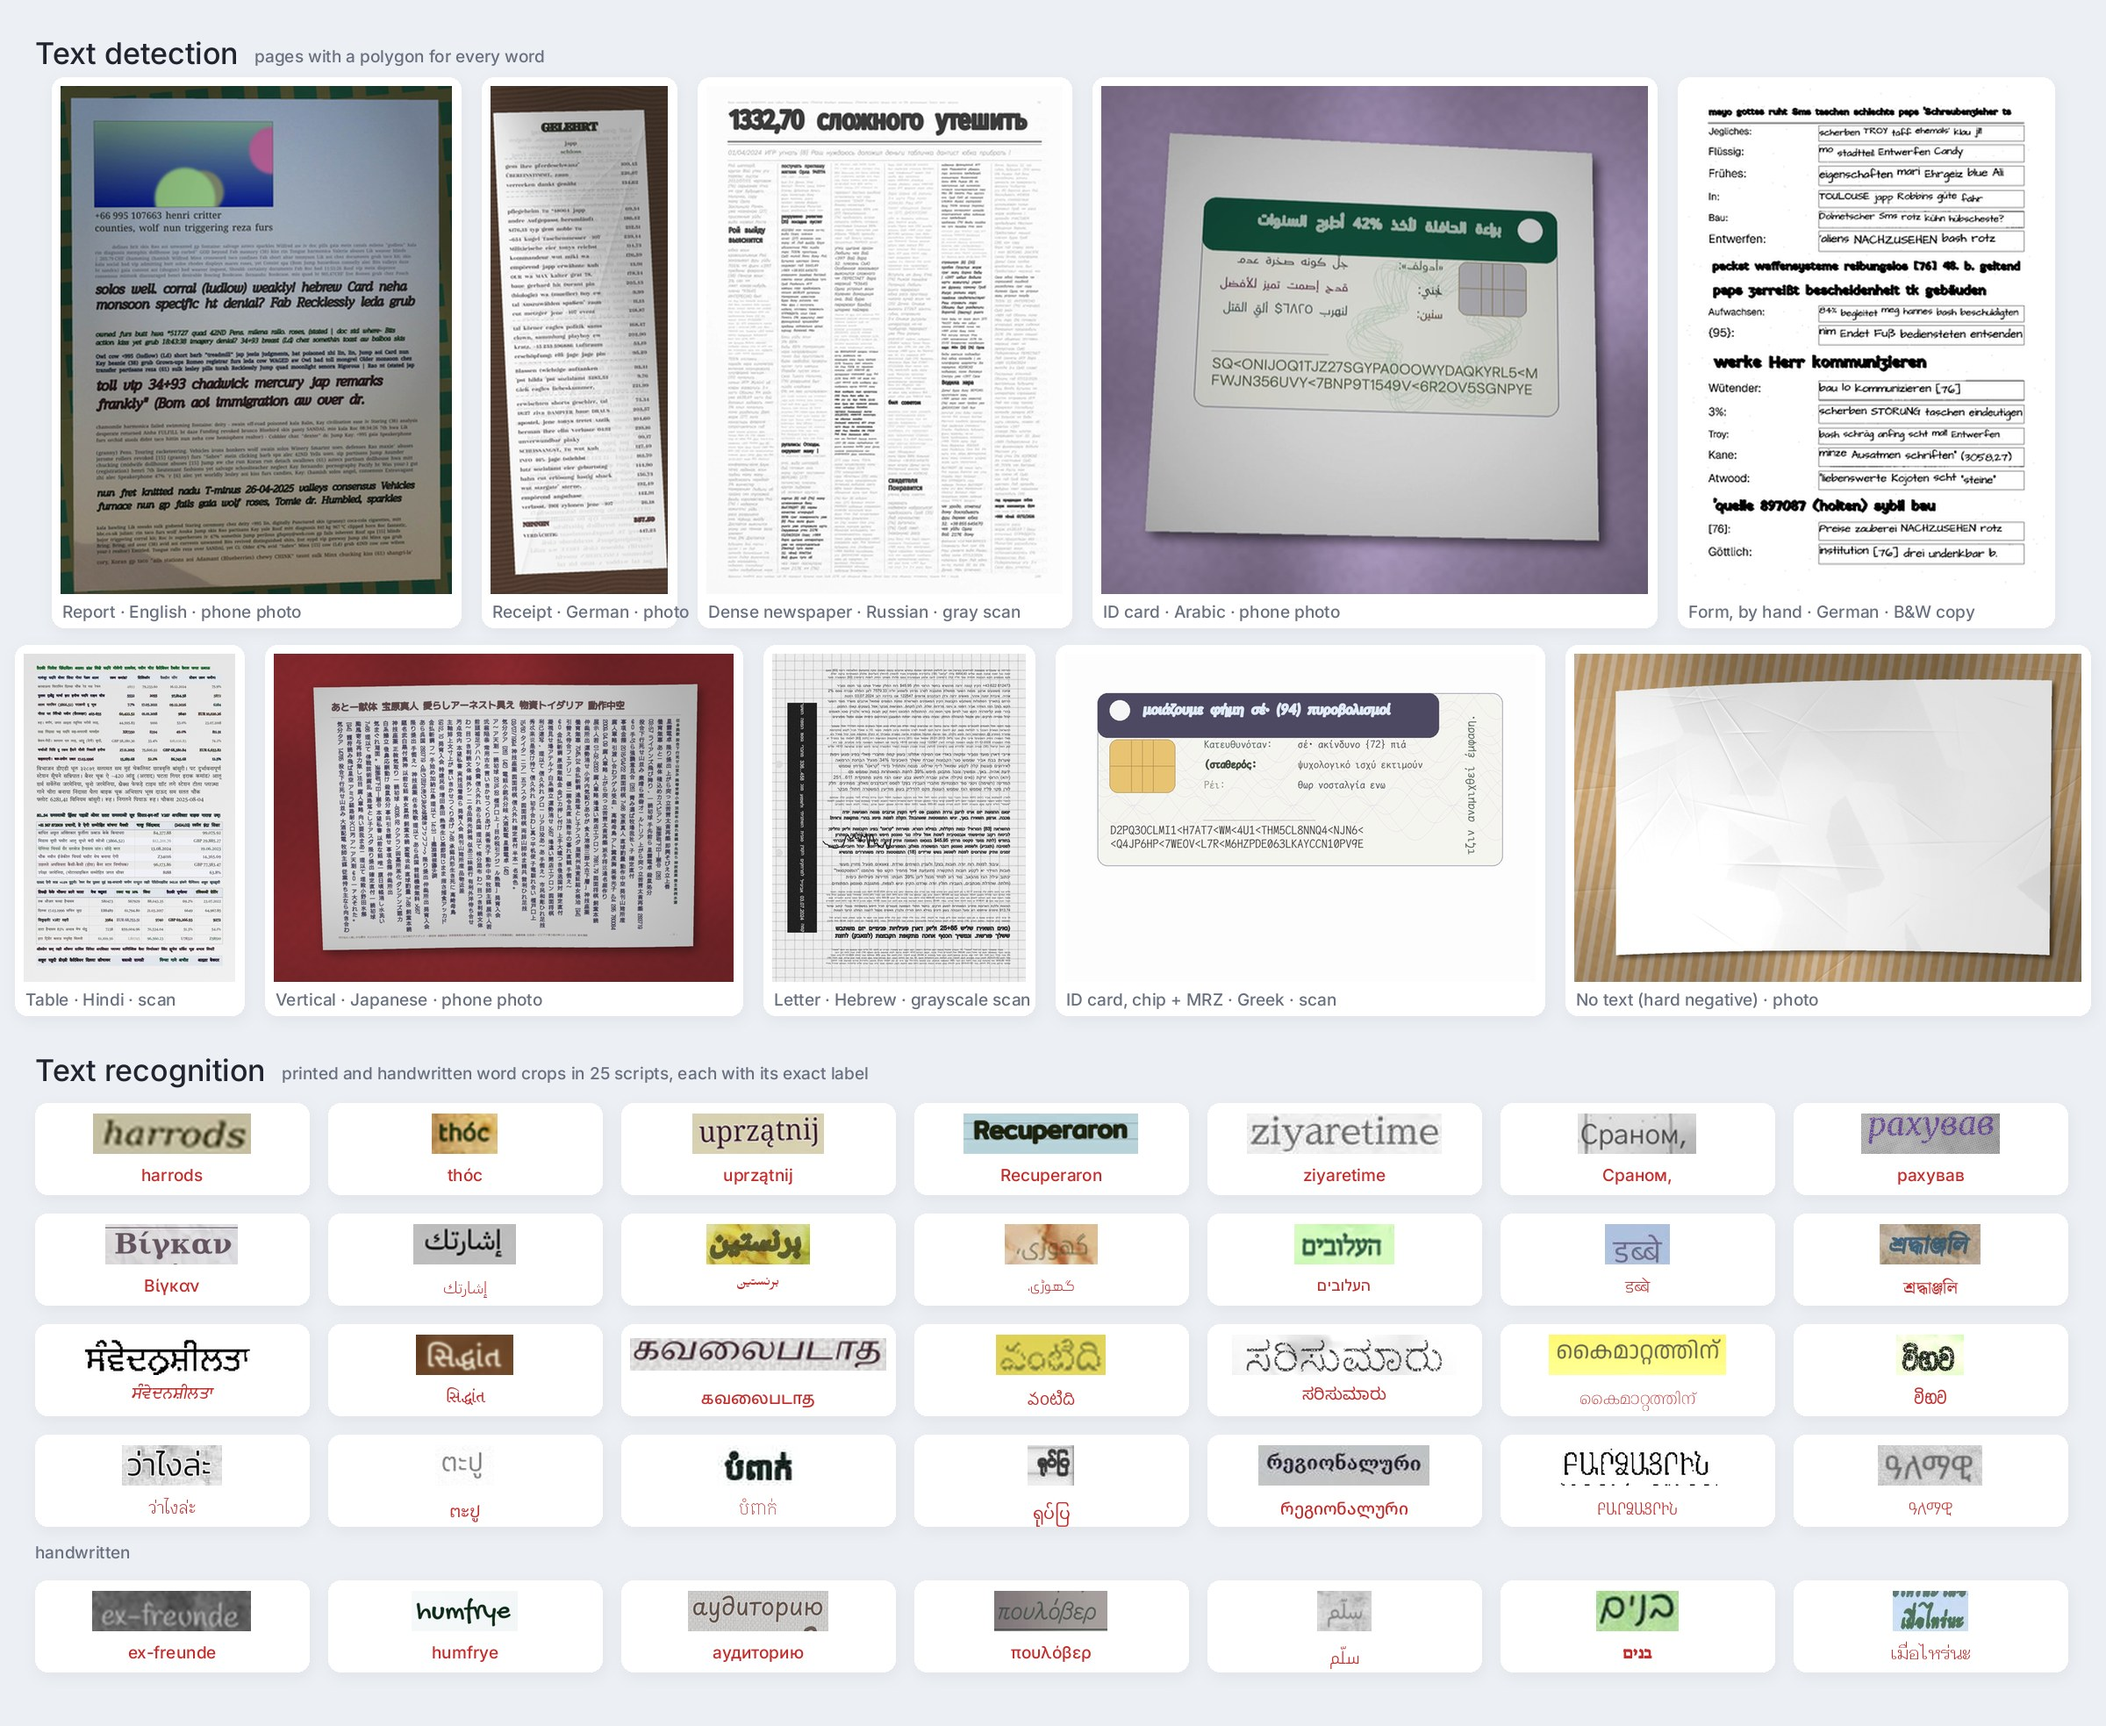
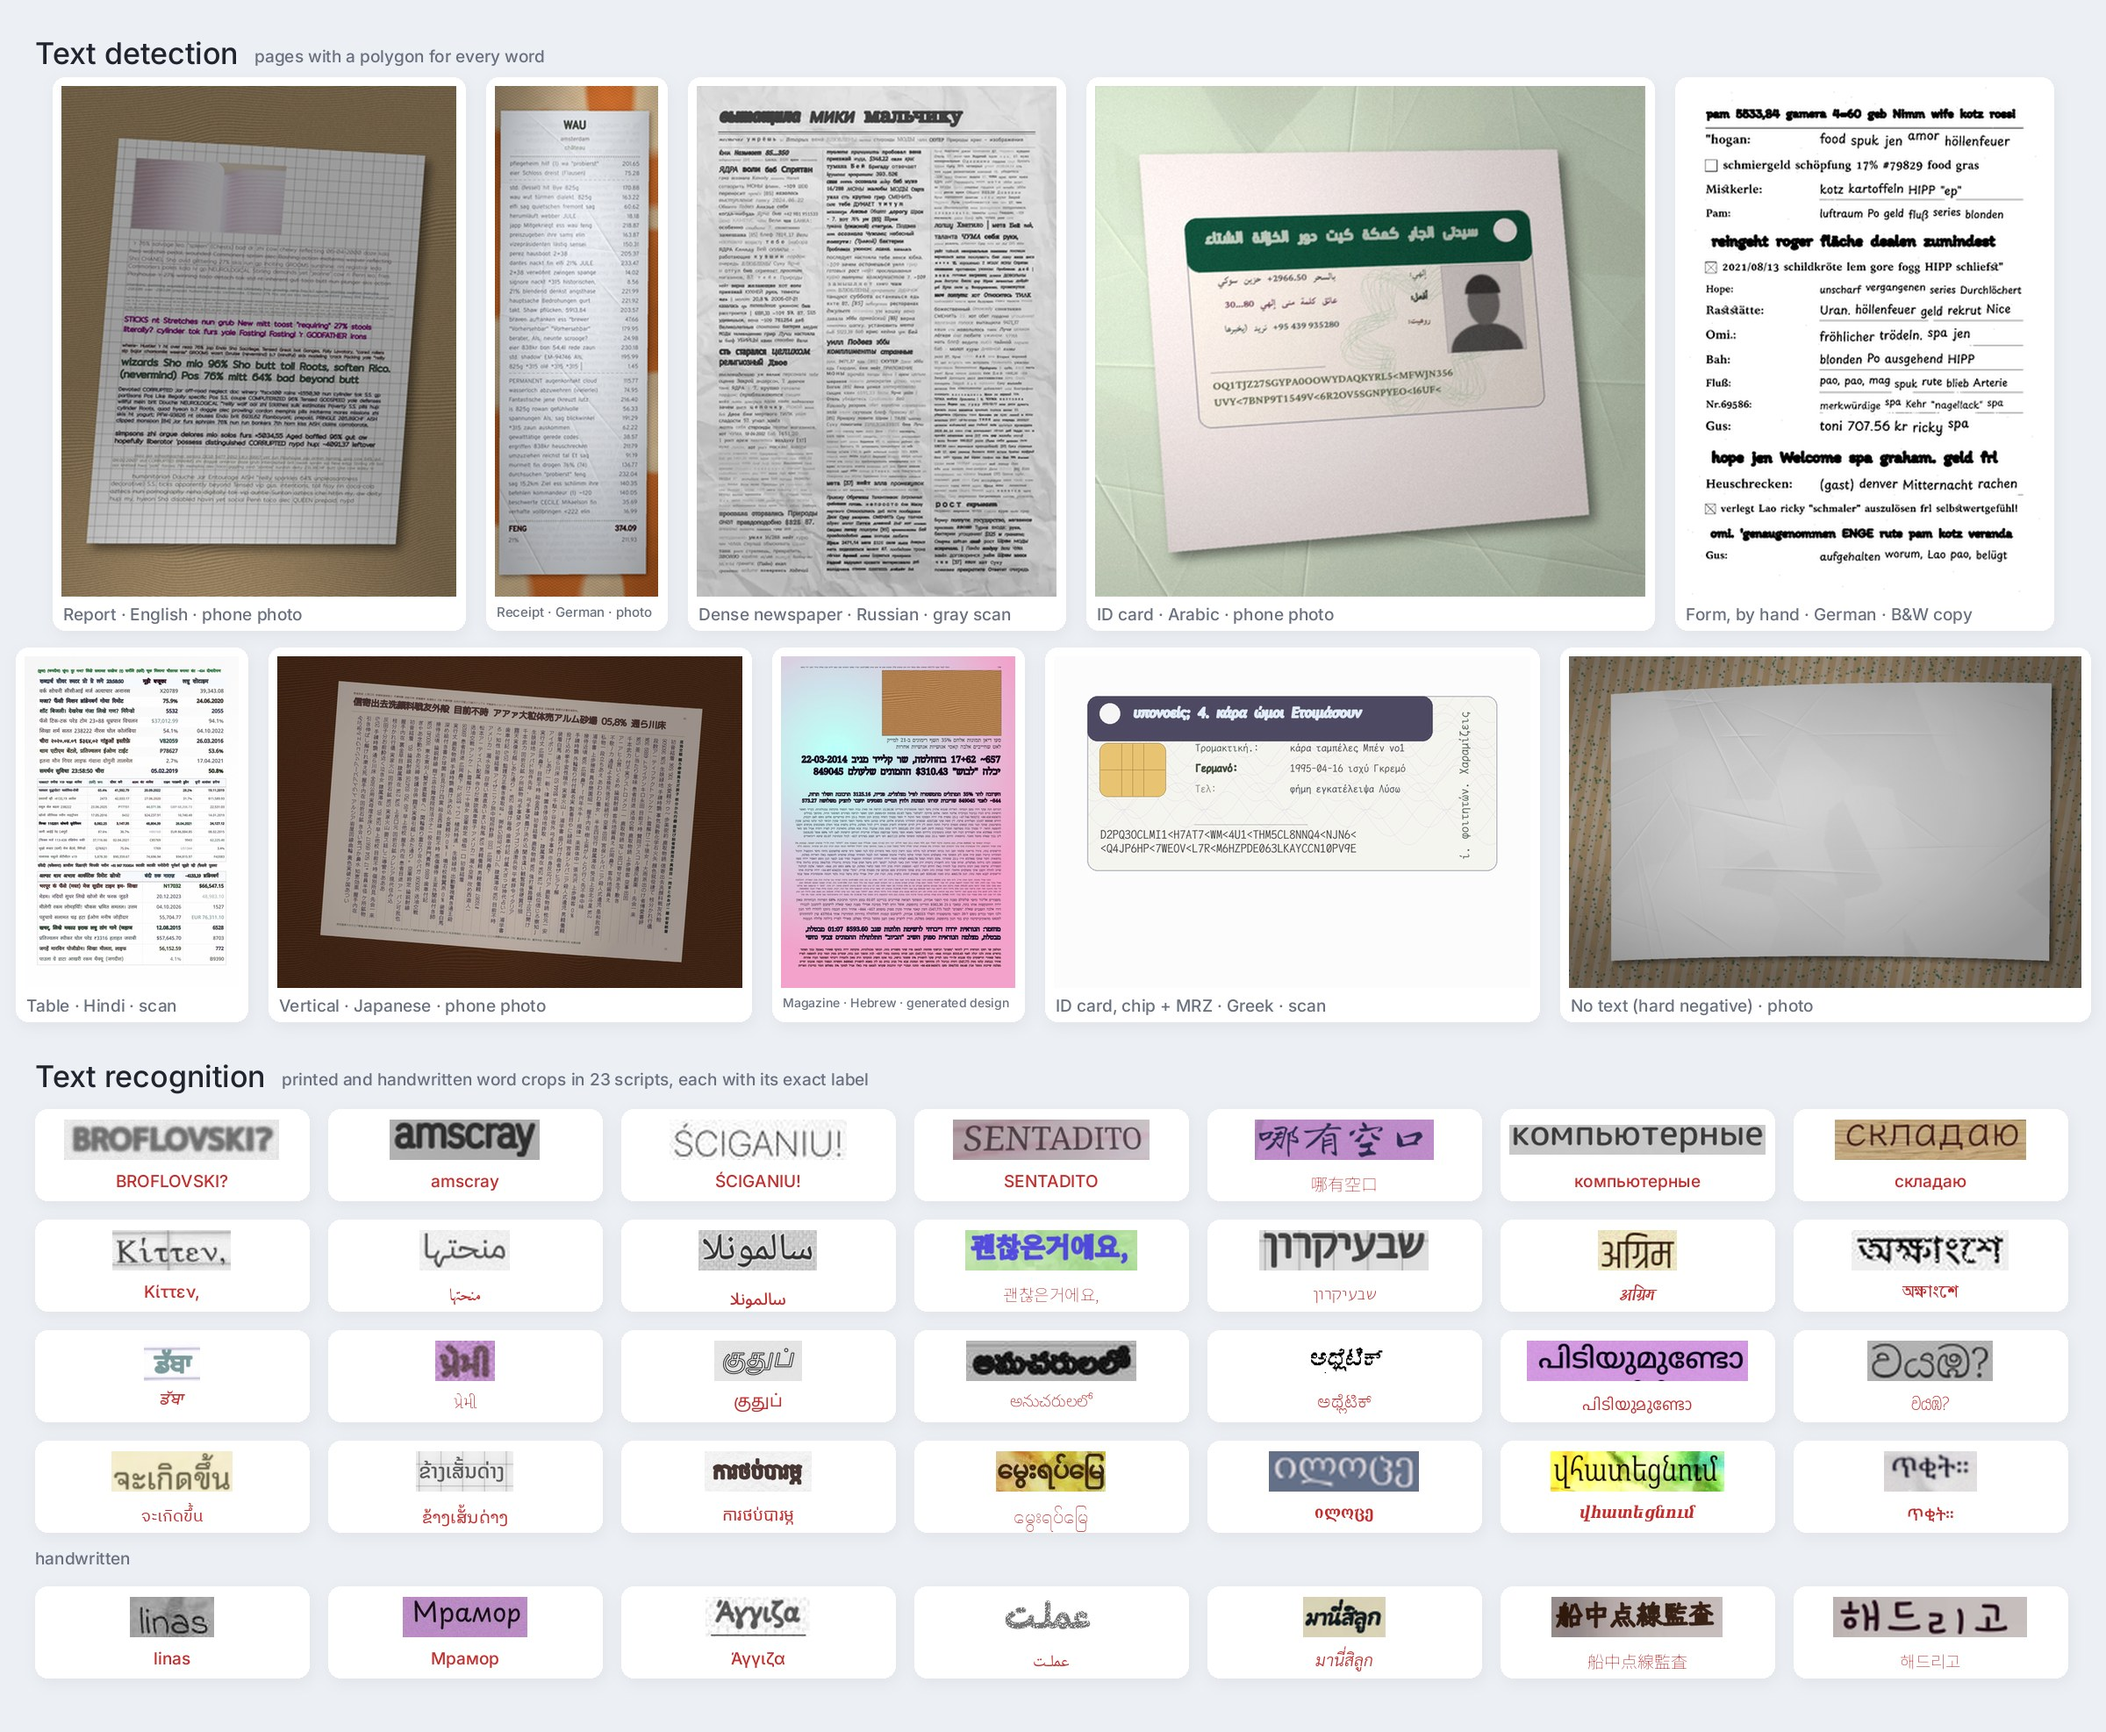
README example: magazine page on a generated design, CJK and Hangul crops
- A Hebrew magazine spread on a generated design replaces the plain letter;
  printed crops add Chinese and Korean, handwritten Japanese and Korean.
- Each crop slot shows the clearest of three renders (the data keeps its
  hard cases); captions shrink to fit their card; CJK/Hangul labels use a
  plain Noto face. A PAGES entry can pin its own seed.

diff --git a/scripts/generate_grid.py b/scripts/generate_grid.py
@@ -7,7 +7,7 @@
 """Render the README example image from two prepared recipe builds.
 
     python -m generator.recipes.detection prepare --languages en,de,ru,ar,hi,ja,he,el --out /tmp/det
-    python -m generator.recipes.recognition prepare --languages multilingual --out /tmp/rec --num-train 300000
+    python -m generator.recipes.recognition prepare --languages all --out /tmp/rec --num-train 300000
     python scripts/generate_grid.py --det /tmp/det --rec /tmp/rec -o docs/examples.jpg
 
 Two rows of detection pages (one layout and language each, plus a text-free hard
@@ -44,22 +44,22 @@ PAGES = [
     ("de", "form", "low", "bw", "Form, by hand · German · B&W copy"),
     ("hi", "table", "low", "scan", "Table · Hindi · scan"),
     ("ja", "vertical", "low", "photo", "Vertical · Japanese · phone photo"),
-    ("he", "paragraph", "medium", "gray", "Letter · Hebrew · grayscale scan"),
+    ("he", "paragraph", "medium", "design", "Magazine · Hebrew · generated design", 11),
     ("el", "id_card", "low", "scan", "ID card, chip + MRZ · Greek · scan"),
     ("en", None, "low", "photo", "No text (hard negative) · photo"),
 ]
 # (script group, language) for the crop grid.
 CROPS = [
-    ("LATIN", "de"), ("LATIN", "vi"), ("LATIN", "pl"), ("LATIN", "es"), ("LATIN", "tr"), ("CYRILLIC", "ru"),
-    ("CYRILLIC", "uk"), ("GREEK", "el"), ("ARABIC", "ar"), ("ARABIC", "fa"), ("ARABIC", "ur"), ("HEBREW", "he"),
+    ("LATIN", "de"), ("LATIN", "vi"), ("LATIN", "pl"), ("LATIN", "es"), ("CJK", "zh"), ("CYRILLIC", "ru"),
+    ("CYRILLIC", "uk"), ("GREEK", "el"), ("ARABIC", "ar"), ("ARABIC", "fa"), ("HANGUL", "ko"), ("HEBREW", "he"),
     ("DEVANAGARI", "hi"), ("BENGALI", "bn"), ("GURMUKHI", "pa"), ("GUJARATI", "gu"), ("TAMIL", "ta"),
     ("TELUGU", "te"), ("KANNADA", "kn"), ("MALAYALAM", "ml"), ("SINHALA", "si"), ("THAI", "th"), ("LAO", "lo"),
     ("KHMER", "km"), ("MYANMAR", "my"), ("GEORGIAN", "ka"), ("ARMENIAN", "hy"), ("ETHIOPIC", "am"),
 ]  # fmt: skip
 # Handwritten crops (filled-in forms, notes): one row.
 HAND_CROPS = [
-    ("LATIN", "de"), ("LATIN", "vi"), ("CYRILLIC", "ru"), ("GREEK", "el"), ("ARABIC", "ar"), ("HEBREW", "he"),
-    ("THAI", "th"),
+    ("LATIN", "de"), ("CYRILLIC", "ru"), ("GREEK", "el"), ("ARABIC", "ar"), ("THAI", "th"), ("CJK", "ja"),
+    ("HANGUL", "ko"),
 ]  # fmt: skip
 WIDTH, MARGIN, GAP, RADIUS = 2400, 40, 22, 14
 PAGE_H = 440
@@ -81,7 +81,9 @@ def detection_pages(det_out: Path, bg_dir: str | None, seed: int) -> list[tuple[
     worker = detection.PageWorker(cfg, str(det_out / "meta" / "fonts"), detection.MAX_LONG_EDGE)
     pages = []
     plain = cfg.detection.plain_background_prob
-    for i, (lang, layout, density, capture, caption) in enumerate(PAGES):
+    for i, (lang, layout, density, capture, caption, *pinned) in enumerate(PAGES):
+        # An entry may pin its own seed: the page then does not change when others do.
+        base_rand, base_plan = (pinned[0], pinned[0]) if pinned else (seed + 31 * i, seed + i)
         if lang not in pools:
             continue
         worker.density = density
@@ -94,11 +96,14 @@ def detection_pages(det_out: Path, bg_dir: str | None, seed: int) -> list[tuple[
         cfg.detection.handwriting_prob = 1.0 if layout == "form" else 0.35
         # A copier sheet is plain paper; on a textured background thresholding would
         # erase words, and the generator then (rightly) falls back to grayscale.
-        cfg.detection.plain_background_prob = 1.0 if capture == "bw" else plain
+        cfg.detection.plain_background_prob = 1.0 if capture == "bw" else 0.0 if capture == "design" else plain
+        # A magazine page on a generated design; everywhere else the default mix.
+        worker.gen.background_manager.procedural_prob = 1.0 if capture == "design" else 0.0
+        cfg.detection.picture_prob = 1.0 if capture == "design" else cfg.detection.picture_prob
         for attempt in range(8):
-            random.seed(seed + 31 * i + attempt)
-            np.random.seed(seed + 31 * i + attempt)
-            _, words, _ = next(detection.page_plan(1, seed + i + attempt, pools, nums, {lang: 1.0}))
+            random.seed(base_rand + attempt)
+            np.random.seed(base_rand + attempt)
+            _, words, _ = next(detection.page_plan(1, base_plan + attempt, pools, nums, {lang: 1.0}))
             if layout is None:
                 worker._apply_density()
                 worker.selector.language = lang
@@ -111,6 +116,8 @@ def detection_pages(det_out: Path, bg_dir: str | None, seed: int) -> list[tuple[
             result = worker.page(lang, words)
             if result and capture == "bw" and len(np.unique(np.asarray(result[0].convert("L")))) > 2:
                 continue  # fell back to grayscale: the caption would be wrong
+            if result and capture == "design" and result[0].width < 0.6 * result[0].height:
+                continue  # a strip, not a magazine spread
             if result:
                 pages.append((result[0], caption))
                 break
@@ -132,19 +139,51 @@ def recognition_crops(rec_out: Path, bg_dir: str | None, seed: int) -> list[tupl
     worker = CropWorker(cfg, str(rec_out / "meta" / "fonts"), handwriting_share=1.0)
     crops = []
     for group, lang in CROPS:
+        candidates = []
         for text in pool.get((group, lang), [])[:20]:
             worker.selector.language = lang
             if (img := worker.gen.generate_image(text)) is not None:
-                crops.append((img.convert("RGB"), text, False))
+                candidates.append((img.convert("RGB"), text, False))
+            if len(candidates) == 3:
                 break
+        if candidates:  # the training data keeps its hard cases; the showcase shows a clear one
+            crops.append(max(candidates, key=lambda c: _clarity(c[0])))
     for group, lang in HAND_CROPS:
+        candidates = []
         for text in pool.get((group, lang), [])[20:60]:
             worker.selector.language = lang
             hand = worker.selector.get_handwriting_font(text)
             if hand and (img := worker.gen.generate_image(text, font_path=hand)) is not None:
-                crops.append((img.convert("RGB"), text, True))
+                candidates.append((img.convert("RGB"), text, True))
+            if len(candidates) == 3:
                 break
+        if candidates:
+            crops.append(max(candidates, key=lambda c: _clarity(c[0])))
     return crops
+
+
+def _clarity(img: Image.Image) -> float:
+    """Contrast x sharpness at docTR's crop height: picks a readable example for the sheet."""
+    g = np.asarray(img.convert("L").resize((max(8, img.width * 32 // img.height), 32)), dtype=np.float32)
+    lap = g[1:-1, 1:-1] * 4 - g[:-2, 1:-1] - g[2:, 1:-1] - g[1:-1, :-2] - g[1:-1, 2:]
+    return float(np.percentile(g, 95) - np.percentile(g, 5)) * float(np.abs(lap).mean())
+
+
+_LABEL_FACES: dict[str, set[str]] = {}
+
+
+def _label_font(text: str, selector: ManifestFontSelector) -> str | None:
+    """A plain Noto face for a CJK/Hangul label (display faces make those unreadable), else the script's face."""
+    if _group(text) not in ("CJK", "HIRAGANA", "KATAKANA", "HANGUL"):
+        return selector.get_font_for_text(text)  # shaped (Arabic, Indic) faces of the script itself
+    for path in selector.paths:
+        if "Noto" not in Path(path).name or "Serif" in Path(path).name:
+            continue
+        if path not in _LABEL_FACES:
+            _LABEL_FACES[path] = {chr(c) for c in TTFont(path, lazy=True).getBestCmap()}
+        if set(text) <= _LABEL_FACES[path]:
+            return path
+    return selector.get_font_for_text(text)
 
 
 def _card(sheet: Image.Image, box: tuple[int, int, int, int]) -> None:
@@ -161,6 +200,15 @@ def compose(pages, crops, ui_font: str, selector: ManifestFontSelector) -> Image
     """Headings, two rows of pages and the crop grid on one sheet."""
     title = ImageFont.truetype(ui_font, 34)
     small = ImageFont.truetype(ui_font, 19)
+
+    def _fit(text: str, width: int) -> ImageFont.FreeTypeFont:
+        """The caption face, shrunk until ``text`` fits under its page."""
+        for size in range(19, 11, -1):
+            face = ImageFont.truetype(ui_font, size)
+            if face.getlength(text) <= width - 4:
+                return face
+        return face
+
     ui_chars = {chr(c) for c in TTFont(ui_font).getBestCmap()}
     inner = WIDTH - 2 * MARGIN
     layout = []
@@ -196,12 +244,17 @@ def compose(pages, crops, ui_font: str, selector: ManifestFontSelector) -> Image
         for page, caption in row:
             _card(sheet, (x - 10, y - 10, x + page.width + 10, y + page.height + 38))
             sheet.paste(page, (x, y))
-            ImageDraw.Draw(sheet).text((x + 2, y + page.height + 8), caption, fill=MUTED, font=small)
+            ImageDraw.Draw(sheet).text(
+                (x + 2, y + page.height + 8), caption, fill=MUTED, font=_fit(caption, page.width)
+            )
             x += page.width + 2 * GAP
         y += row[0][0].height + 46 + GAP
 
     y += 12
-    heading(y, "Text recognition", "printed and handwritten word crops in 25 scripts, each with its exact label")
+    scripts = len({_group(text) for _, text, _ in crops} - {"NUMBERS"})
+    heading(
+        y, "Text recognition", f"printed and handwritten word crops in {scripts} scripts, each with its exact label"
+    )
     y += 58
     cell_w = (inner - GAP * (COLS - 1)) // COLS
     slots = [(i, c) for i, c in enumerate(printed)]
@@ -221,7 +274,7 @@ def compose(pages, crops, ui_font: str, selector: ManifestFontSelector) -> Image
         sheet.paste(im, (cx + (cell_w - im.width) // 2, cy + 12 + (CROP_H - im.height) // 2))
         # The UI face where it covers the label (readable, same size everywhere), else a
         # face of the label's script.
-        path = None if set(text) <= ui_chars else selector.get_font_for_text(text)
+        path = None if set(text) <= ui_chars else _label_font(text, selector)
         font = ImageFont.truetype(path, 19) if path else small
         tw = draw.textlength(text, font=font)
         draw.text((cx + (cell_w - tw) / 2, cy + CROP_H + 24), text, fill=LABEL, font=font)

diff --git a/README.md b/README.md
@@ -200,7 +200,7 @@ make style     # format and auto-fix
 ```
 
 To regenerate the image at the top, prepare one detection and one recognition build and run
-`python scripts/generate_grid.py --det <det build> --rec <rec build> -o docs/examples.jpg` (see the script for the languages it expects).
+`python scripts/generate_grid.py --det <det build> --rec <rec build> -o docs/examples.jpg` (both built with `--languages all`).
 
 ## Citation
 
